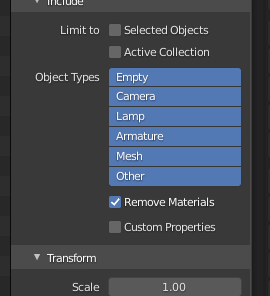
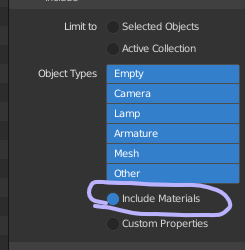
Rename plugin name and clean up menu button location

diff --git a/io_scene_fbx_remove_materials/export_fbx_bin.py b/io_scene_fbx_remove_materials/export_fbx_bin.py
@@ -2864,7 +2864,7 @@ def fbx_definitions_elements(root, scene_data):
     fbx_templates_generate(definitions, scene_data.templates)
 
 
-def fbx_objects_elements(root, scene_data,skip_material):
+def fbx_objects_elements(root, scene_data,include_material):
     """
     Data (objects, geometry, material, textures, armatures, etc.).
     """
@@ -2917,7 +2917,7 @@ def fbx_objects_elements(root, scene_data,skip_material):
         fbx_data_leaf_bone_elements(objects, scene_data)
 
     for ma in scene_data.data_materials:
-        if skip_material == False:
+        if include_material == True:
             fbx_data_material_elements(objects, ma, scene_data)
 
     for blender_tex_key in scene_data.data_textures:
@@ -2984,7 +2984,7 @@ def save_single(operator, scene, depsgraph, filepath="",
                 context_objects=None,
                 object_types=None,
                 use_mesh_modifiers=True,
-                skip_material=False,
+                include_material=True,
                 use_mesh_modifiers_render=True,
                 mesh_smooth_type='FACE',
                 use_subsurf=False,
@@ -3104,7 +3104,7 @@ def save_single(operator, scene, depsgraph, filepath="",
     fbx_definitions_elements(root, scene_data)
 
     # Actual data.
-    fbx_objects_elements(root, scene_data,skip_material)
+    fbx_objects_elements(root, scene_data,include_material)
 
     # How data are inter-connected.
     fbx_connections_elements(root, scene_data)

diff --git a/io_scene_fbx_remove_materials/__init__.py b/io_scene_fbx_remove_materials/__init__.py
@@ -19,7 +19,7 @@
 # <pep8 compliant>
 
 bl_info = {
-    "name": "FBX format(Skip_Meshes)",
+    "name": "FBX format(Remove Materials)",
     "author": "Campbell Barton, Bastien Montagne, Jens Restemeier",
     "version": (4, 21, 3),
     "blender": (2, 90, 0),
@@ -399,8 +399,8 @@ class ExportFBX(bpy.types.Operator, ExportHelper):
             description="Export only objects from the active collection (and its children)",
             default=False,
             )
-    skip_material: BoolProperty(
-            name="Export Materials",
+    include_material: BoolProperty(
+            name="Include Materials",
             description="Save mesh with or without Material information",
             default=True,
             )
@@ -699,10 +699,10 @@ class FBX_PT_export_include(bpy.types.Panel):
         sublayout.enabled = (operator.batch_mode == 'OFF')
         sublayout.prop(operator, "use_selection")
         sublayout.prop(operator, "use_active_collection")
-        sublayout.prop(operator, "skip_material")
         
 
         layout.column().prop(operator, "object_types")
+        layout.prop(operator, "include_material")
         layout.prop(operator, "use_custom_props")
 
 

diff --git a/README.md b/README.md
@@ -1,4 +1,5 @@
 # FBX-Material-Remover
-Strip material tags from exported fbx meshs in blender. Tested in 2.91
+Strip material tags from exported fbx meshs in blender. Fork of the built in FBX plugn. Tested in 2.91
+**Warning** Disable the built in FBX plugin before installing this one.
 
 ![Remove Materials](https://github.com/ZeroGravity-Studios/FBX-Material-Remover/blob/main/Capture.PNG)
